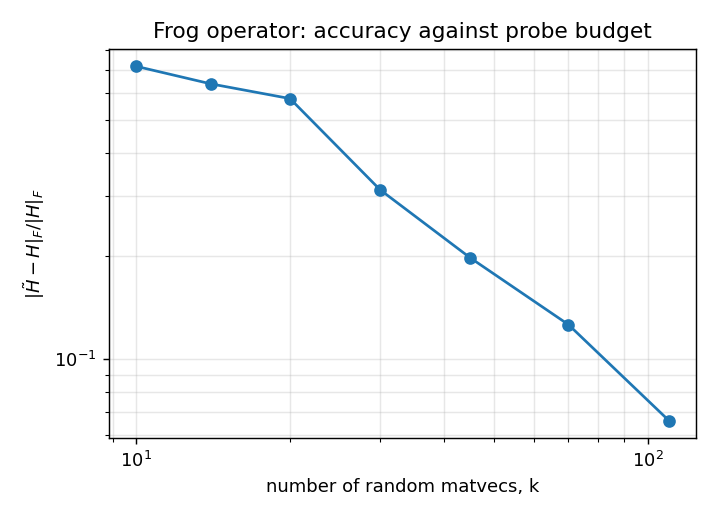
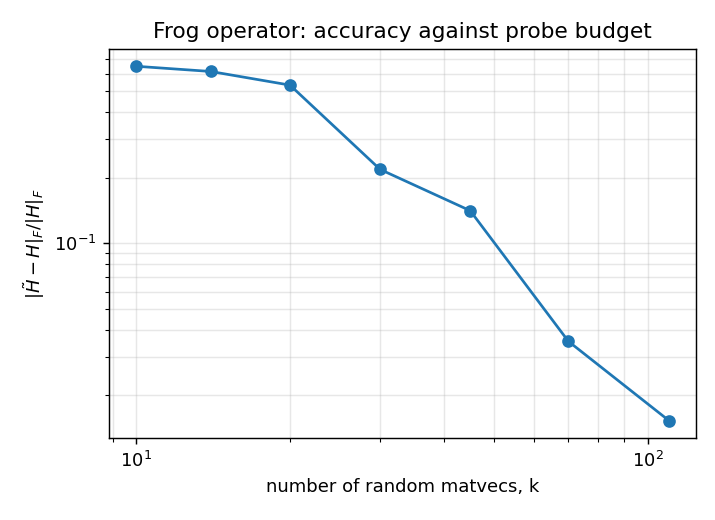
Transpose the frog kernel so the fitted object is the plotted object
Nick spotted speckle in the impulse panels -- isolated negative pixels
in a reconstruction built from a smooth basis. The basis was fine; the
plot was showing the wrong transversal.

`fit_operator` models a ROW as a smooth function of the source
coordinate. An impulse response is a COLUMN, which takes one value from
each of many INDEPENDENTLY fitted rows, and nothing couples neighbours.
Measured on the old setup: along rows the fit was smoother than the
truth (0.0046 vs 0.0107 at k=10), down columns it was 2.1x rougher than
along rows, while the truth is essentially isotropic (0.0101 / 0.0107).
The ratio faded to 1.06x by k=45 as the fits became well determined.

The dominant mechanism was discrete, not noise: adjacent rows landed on
DIFFERENT RUNGS of the mode ladder -- rows 207/208/209 took 3/6/3 modes,
225/227 took 1/6 -- and the fitted sigma jittered by a median
|dlog sigma| of 0.31 between vertically adjacent rows. Not window
truncation and not baseline fallback: every worst pixel was status Fit
and inside its own window.

Symmetrizing damps it, and is the wrong tool HERE: the frog operator is
84% asymmetric (||H - H^T|| / ||H|| = 0.843, since the rotation was
anchored at the source), so averaging with the transpose destroyed real
information -- 0.1812 -> 0.4421 at k=45. It helped on PIG because a
Gauss-Newton Hessian is symmetric by construction, which is a property
of that operator rather than a general win.
[…]

diff --git a/examples/operator_fit_frog.py b/examples/operator_fit_frog.py
@@ -12,6 +12,11 @@ product that makes it mildly negative in places. That rotation is the point --
 a stationary convolution cannot represent it, and it is exactly what a fitted
 per-row ellipsoid can.
 
+The kernel is anchored at the TARGET, i.e. transposed relative to how it is
+usually written, so that a ROW of the operator is a point-spread function.
+That is the object `fit_operator` models, so it is also the object worth
+plotting; see `frog_row` for why the other orientation goes wrong.
+
     H[i, j] = m1[i] * m2[j] * phi(x_i, x_j)
 
 on a uniform grid over the unit square, with `m` the lumped mass. The fitter
@@ -53,16 +58,23 @@ def _bump(x):
 
 
 def frog_row(target, sources, sigma0_diag=SIGMA0_DIAG):
-    """phi(target, sources): one operator ROW of the continuum kernel.
+    """Row `target` of the kernel: its point-spread function, over all sources.
 
-    `target` is (2,), `sources` is (2, K); returns (K,). The rotation and the
-    bump are evaluated at the SOURCE, matching the original definition.
+    `target` is (2,), `sources` is (2, K); returns (K,).
+
+    **The shape is anchored at the TARGET**, which is the transpose of how the
+    frog kernel is usually written. That is deliberate and it matters: the
+    fitter models a ROW as a smooth function of the source coordinate, so
+    anchoring here makes the object the method represents and the object you
+    plot the same thing. Anchor it at the source instead and each row becomes a
+    transversal of many different local shapes -- which the LG expansion cannot
+    represent smoothly, and which shows up as speckle.
     """
     sd = np.asarray(sigma0_diag)
-    angle = _angle(sources)                      # (K,)
+    angle = _angle(target)                       # scalar: the local rotation
     cos, sin = np.cos(angle), np.sin(angle)
-    d = target[:, None] - sources                # (2, K)
-    # p = R(source) @ d, with R = [[cos, -sin], [sin, cos]]
+    d = sources - target[:, None]                # (2, K)
+    # p = R(target) @ d, with R = [[cos, -sin], [sin, cos]]
     p0 = cos * d[0] - sin * d[1]
     p1 = sin * d[0] + cos * d[1]
 
@@ -70,16 +82,16 @@ def frog_row(target, sources, sigma0_diag=SIGMA0_DIAG):
     gaussian = np.exp(-0.5 * maha2) / (2.0 * np.pi * np.sqrt(sd.prod()))
     modulation = (np.cos(p0 / (np.sqrt(sd[0]) / 2.0))
                   * np.sin(p1 / (np.sqrt(sd[1]) / 2.0)))
-    return _bump(sources) * (1.0 + A_MOD * modulation) * gaussian
+    return _bump(target) * (1.0 + A_MOD * modulation) * gaussian
 
 
 def frog_covariance(x, sigma0_diag=SIGMA0_DIAG):
     """The kernel's local covariance at x -- the a-priori ellipsoid field.
 
-    From maha2 = d^T R^T diag(1/sd) R d, so Sigma = R^T diag(sd) R. This is the
-    honest "best guess a physicist would supply": the right shape and
-    orientation, but nothing about the modulation, which is what the LG modes
-    have to discover.
+    From maha2 = d^T R^T diag(1/sd) R d, so Sigma = R^T diag(sd) R, evaluated
+    at the row's own point. This is the honest "best guess a physicist would
+    supply": the right shape and orientation, but nothing about the modulation,
+    which is what the LG modes have to discover.
     """
     angle = _angle(x)
     cos, sin = np.cos(angle), np.sin(angle)
@@ -145,7 +157,7 @@ def relative_frobenius(approx, H):
 # the curve is meant to show.
 CONVERGENCE_K = [10, 14, 20, 30, 45, 70, 110]
 IMPULSE_K = [10, 20, 45]
-IMPULSE_SOURCES = [(0.30, 0.30), (0.55, 0.35), (0.70, 0.65)]
+IMPULSE_TARGETS = [(0.30, 0.30), (0.55, 0.35), (0.70, 0.65)]
 
 
 def main():
@@ -200,19 +212,20 @@ def main():
     fig.savefig("examples/operator_fit_frog_convergence.png", dpi=130)
     print("\nwrote examples/operator_fit_frog_convergence.png")
 
-    # Impulse responses: a column of H is the response to a point source, which
-    # is what the eye can actually judge.
-    fig, axes = plt.subplots(len(IMPULSE_SOURCES), len(IMPULSE_K) + 1,
+    # A ROW of H is the point-spread function at that target -- one model,
+    # evaluated over every source. It is what the fitter represents, so it is
+    # what the eye should judge.
+    fig, axes = plt.subplots(len(IMPULSE_TARGETS), len(IMPULSE_K) + 1,
                              figsize=(3.1 * (len(IMPULSE_K) + 1),
-                                      2.9 * len(IMPULSE_SOURCES)))
-    for row, source in enumerate(IMPULSE_SOURCES):
-        j = int(np.argmin(np.linalg.norm(
-            problem["x"] - np.array(source)[:, None], axis=0)))
-        truth = problem["H"][:, j].reshape(grid, grid)
+                                      2.9 * len(IMPULSE_TARGETS)))
+    for row, target in enumerate(IMPULSE_TARGETS):
+        i = int(np.argmin(np.linalg.norm(
+            problem["x"] - np.array(target)[:, None], axis=0)))
+        truth = problem["H"][i, :].reshape(grid, grid)
         limit = np.abs(truth).max()
         for col, (title, field) in enumerate(
                 [("true", truth)]
-                + [(f"k = {k}", keep[k][:, j].reshape(grid, grid))
+                + [(f"k = {k}", keep[k][i, :].reshape(grid, grid))
                    for k in IMPULSE_K]):
             ax = axes[row, col]
             ax.imshow(field.T, origin="lower", extent=(0, 1, 0, 1),
@@ -221,8 +234,9 @@ def main():
             if row == 0:
                 ax.set_title(title)
             if col == 0:
-                ax.set_ylabel(f"source {source}")
-    fig.suptitle("Impulse responses: the truth, and fits at three probe budgets")
+                ax.set_ylabel(f"target {target}")
+    fig.suptitle("Point-spread functions (rows of H): truth, and fits at "
+                 "three probe budgets")
     fig.tight_layout()
     fig.savefig("examples/operator_fit_frog_impulses.png", dpi=130)
     print("wrote examples/operator_fit_frog_impulses.png")

diff --git a/bindings/tests/test_frog_integration.py b/bindings/tests/test_frog_integration.py
@@ -58,16 +58,50 @@ def test_matvec_and_the_assembled_matrix_agree_on_the_real_operator(problem):
                                (assembled @ probes.T).T, atol=1e-14)
 
 
-def test_the_kernel_row_matches_a_pointwise_evaluation(problem):
-    # Guards the vectorized-over-source rewrite in the example: the operator
-    # row is phi(target, .) with the rotation taken at the SOURCE, and getting
-    # that backwards would silently build a different operator to fit.
+def test_the_row_envelope_is_the_targets_own_covariance(problem):
+    """Pins the anchoring, which is the example's whole setup.
+
+    The kernel is anchored at the TARGET, so a row is one point-spread function
+    and `frog_covariance(target)` is exactly its envelope. Anchor it at the
+    source instead and a row becomes a transversal of many different local
+    shapes -- a perfectly good operator, but not one a per-row smooth expansion
+    can represent, and the prior handed to the fitter would be the wrong shape.
+
+    Derived here from `frog_covariance` independently of `frog_row`, so the two
+    cannot drift apart silently.
+    """
     x = problem["x"]
     target = x[:, 137]
     row = frog_row(target, x)
-    for j in (0, 55, 199, 380):
-        single = frog_row(target, x[:, j:j + 1])[0]
-        assert row[j] == pytest.approx(single)
+
+    sigma = frog_covariance(target)
+    d = x - target[:, None]
+    maha2 = np.einsum("ik,ij,jk->k", d, np.linalg.inv(sigma), d)
+    envelope = np.exp(-0.5 * maha2) / (2.0 * np.pi * np.sqrt(np.linalg.det(sigma)))
+
+    # row = bump(target) * (1 + A_MOD * modulation) * envelope, and the
+    # modulation is a product of a cos and a sin, so the ratio lies in [0, 2].
+    from operator_fit_frog import A_MOD, _bump
+    near = envelope > 1e-6 * envelope.max()
+    ratio = row[near] / (envelope[near] * _bump(target))
+    assert ratio.min() > -1e-9
+    assert ratio.max() < 1.0 + A_MOD + 1e-9
+
+
+def test_a_fitted_row_is_no_rougher_than_the_row_it_fits(problem):
+    """The smooth basis, made checkable.
+
+    Note the TRUTH is smooth in both directions -- it is a smooth function of
+    both arguments -- so this is not inherited from the operator. Rows are
+    smooth because one smooth model produces each; columns carry no such
+    guarantee, since a column takes one value from each of many independently
+    fitted rows.
+    """
+    fit, approx = fit_at(problem, 45)
+    scale = np.abs(problem["H"]).max()
+    truth = np.abs(np.diff(problem["H"], n=2, axis=1)).mean() / scale
+    fitted = np.abs(np.diff(approx, n=2, axis=1)).mean() / scale
+    assert fitted <= truth * 1.05
 
 
 def test_the_prior_covariance_is_the_kernels_own_shape():
